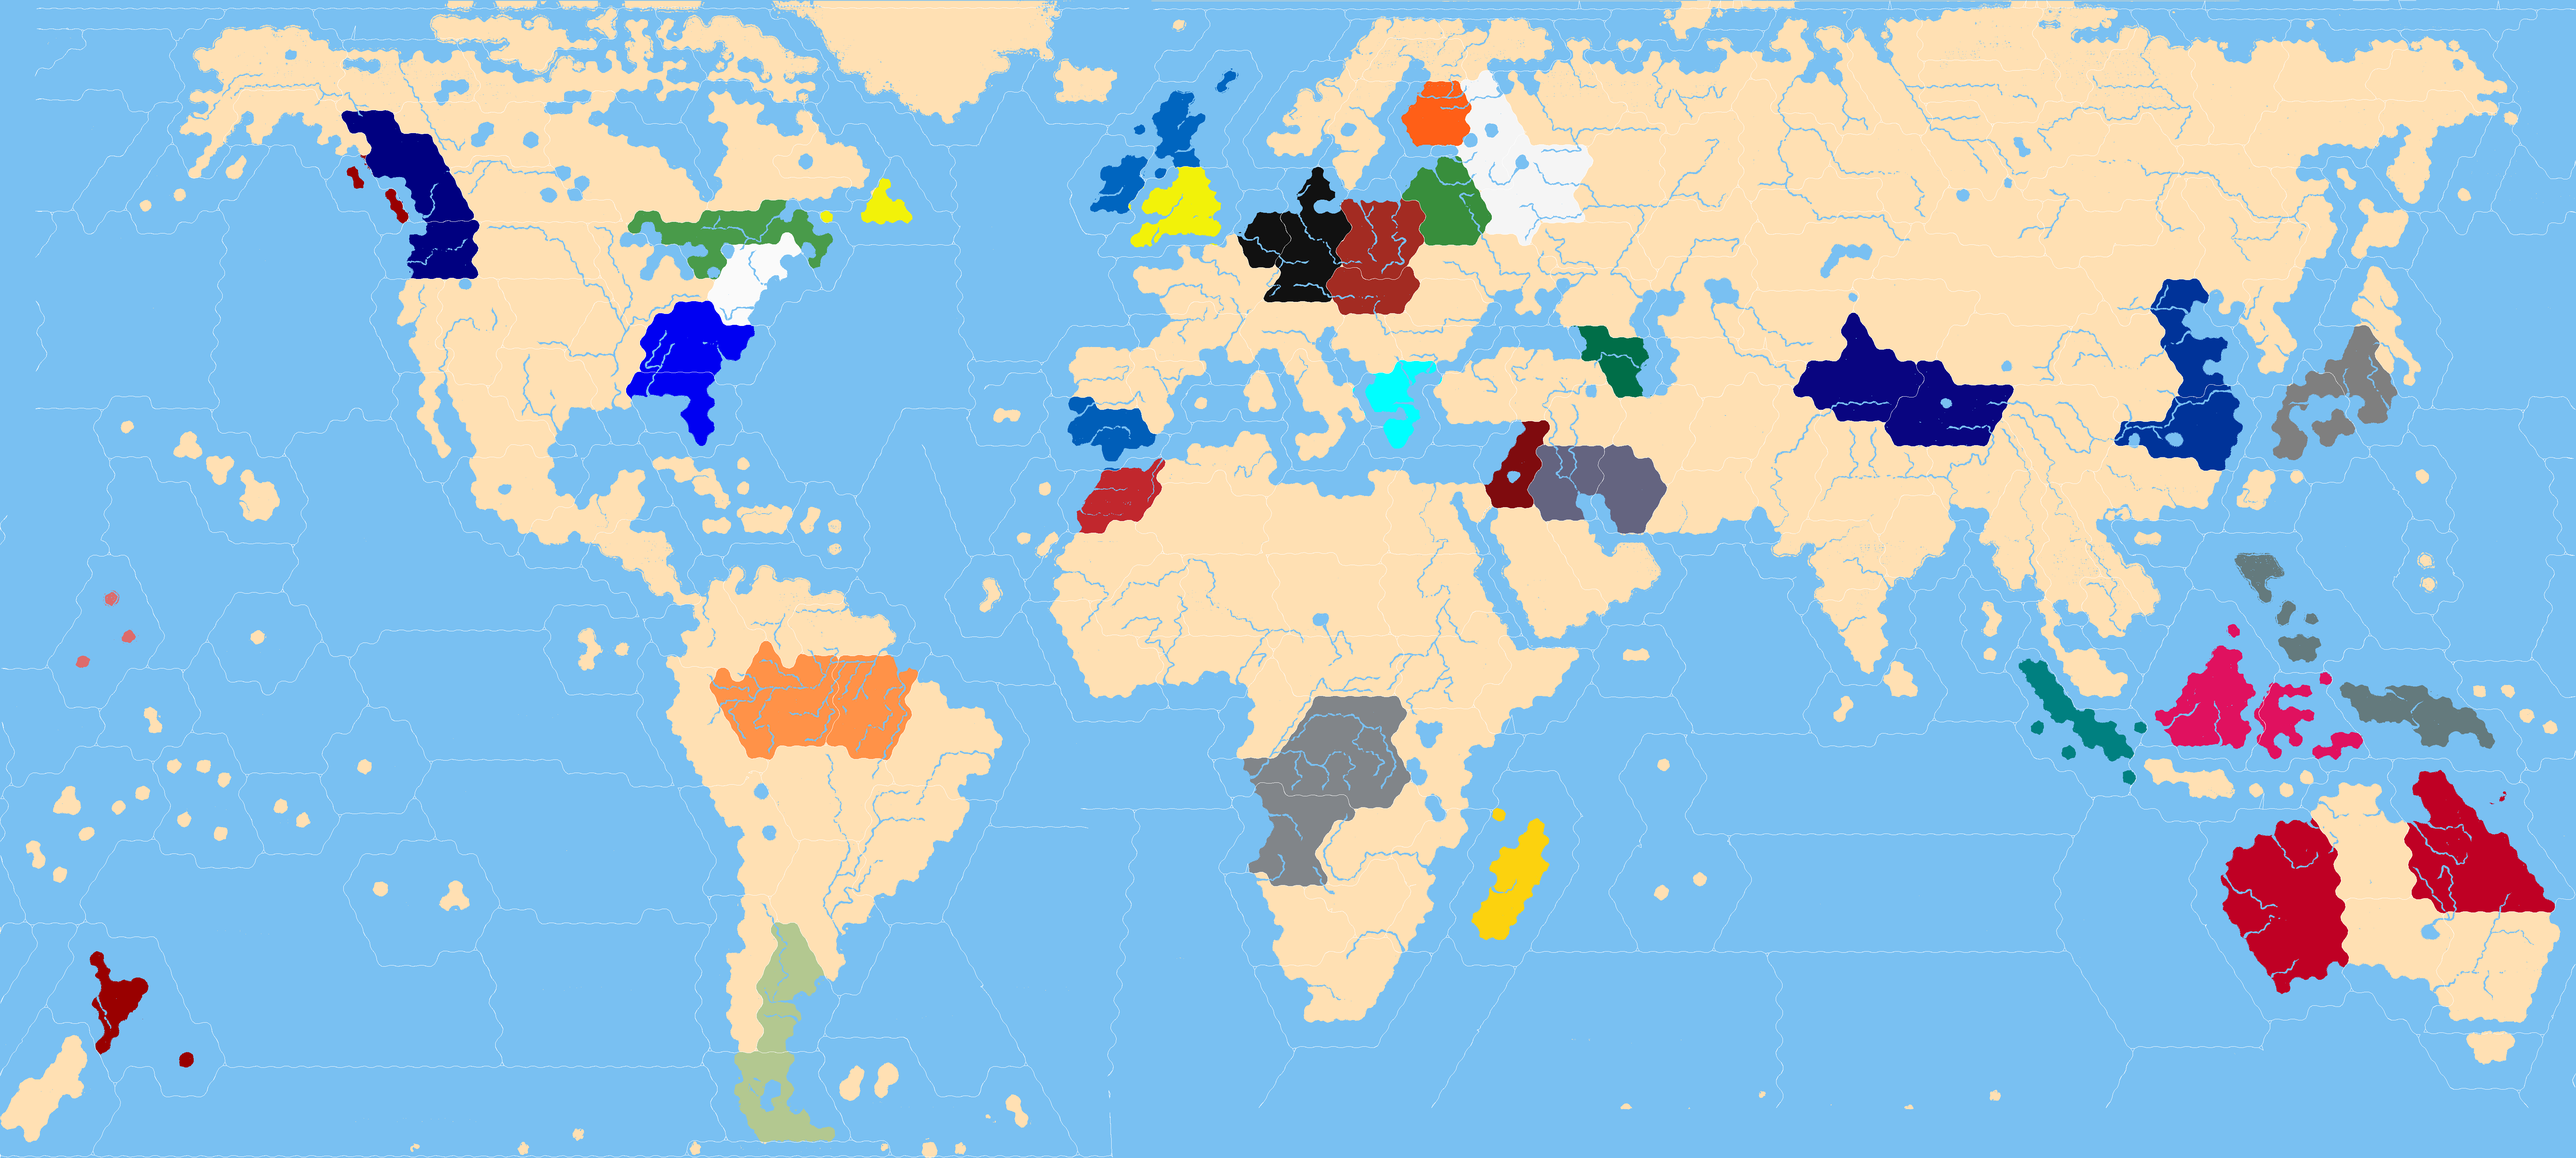
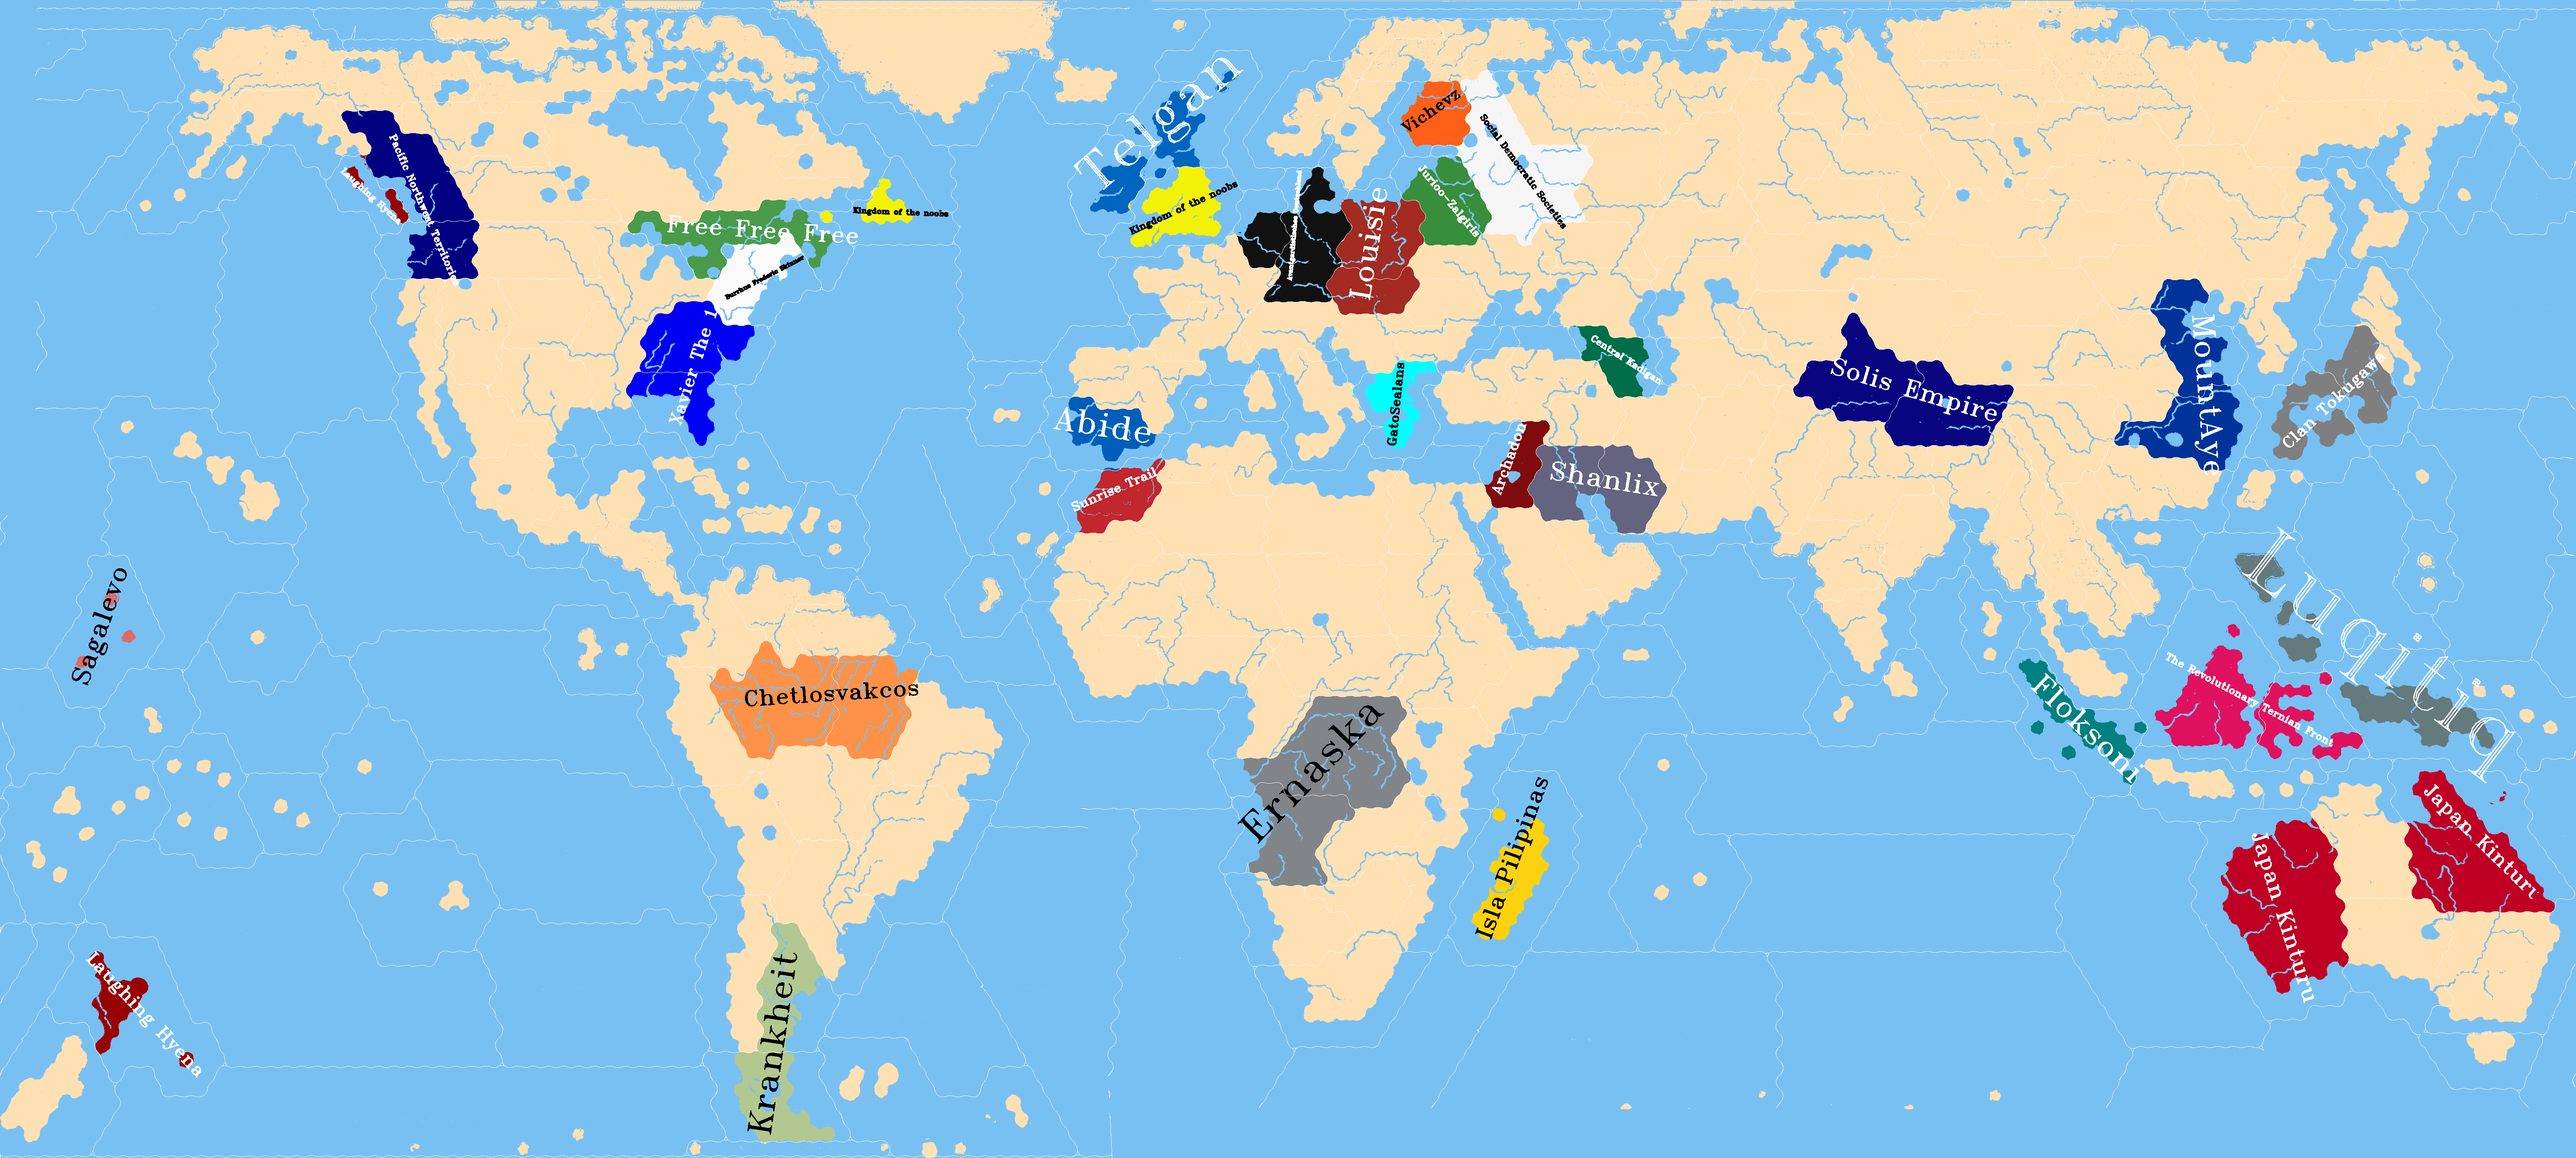
Decoration: add names on the map

diff --git a/scripts/paint_map.py b/scripts/paint_map.py
@@ -1,7 +1,8 @@
 import json
+import cv2
 import numpy as np
 import pandas as pd
-from skimage import io,segmentation,util
+from skimage import io,segmentation,morphology,measure,util
 
 def hex2color(hex:str):
     assert hex[0] == "#", "ColorError: lost `#` before hex code."
@@ -22,11 +23,52 @@ latest = np.zeros((*base.shape,3),dtype=int)
 latest[mask_lands] = hex2color(config["color_land"])
 latest[mask_ocean] = hex2color(config["color_seas"])
 
-for i,series in registered.iterrows():
-    row = int(series["PIN_ROW"])
-    col = int(series["PIN_COL"])
-    mask_territory = segmentation.flood(borders,(row,col),connectivity=1)
-    latest[np.logical_and(mask_lands,mask_territory)] = hex2color(series["COLOR"])
+for name in registered["STATE"].unique():
+    count_words = len(name.split(" "))
+    entries = registered.loc[registered["STATE"].eq(name)]
+    nation_territories = np.zeros_like(base,dtype=bool)
+    name_color = np.array([255,255,255])
+    nation_color = hex2color(config["color_land"])
+    for i,series in entries.iterrows():
+        row = int(series["PIN_ROW"])
+        col = int(series["PIN_COL"])
+        nation_territory = segmentation.flood(borders,(row,col),connectivity=1)
+        nation_territories = np.logical_or(nation_territories,nation_territory)
+        nation_land = np.logical_and(mask_lands,nation_territory)
+        
+        nation_color = hex2color(series["COLOR"])
+        latest[nation_land] = nation_color
+        if np.dot(nation_color,np.array([0.299,0.587,0.114]))>256/2:
+            name_color = np.array([0,0,0])
+    # Because we don't know if their territories are connected:
+    nation_territories = morphology.binary_opening(nation_territories,footprint=np.ones((3,3)))
+    for prop_territory in measure.regionprops(measure.label(nation_territories)):
+        angle = prop_territory.orientation * 180 / np.pi - 90
+        if angle < -90:
+            angle = 180 + angle
+        y,x = prop_territory.centroid
+        x -= 0.35 * prop_territory.axis_major_length * np.cos(angle/180*np.pi)
+        x = int(x)
+        y += 0.35 * prop_territory.axis_major_length * np.sin(angle/180*np.pi)
+        y = int(y)
+
+        (name_width,name_height),_ = cv2.getTextSize(name,fontFace=cv2.FONT_HERSHEY_TRIPLEX,fontScale=1,thickness=1)
+        scale = 0.8 * prop_territory.axis_major_length / name_width
+
+        text = cv2.putText(
+                           img=np.zeros_like(base,dtype=np.uint8), # Image.
+                           text=name,	               # Text string to be drawn.
+                           org=(x,y),	                   # Bottom-left corner of the text string in the image.
+                           fontFace=cv2.FONT_HERSHEY_TRIPLEX, # Font type, see HersheyFonts.
+                           fontScale=scale,	                   # Font scale factor that is multiplied by the font-specific base size.
+                           color=255,	                       # Text color.
+                           thickness=2,	                   # Thickness of the lines used to draw a text.
+                           lineType=cv2.LINE_AA,	           # Line type. See LineTypes
+                           bottomLeftOrigin=False,	           # When true, the image data origin is at the bottom-left corner. Otherwise, it is at the top-left corner.
+                          )
+        M = cv2.getRotationMatrix2D((x,y), angle, 1)
+        text = cv2.warpAffine(text, M, (text.shape[1], text.shape[0]))
+        latest[(text>255/2)] = name_color
 
 latest[(borders>0)] = np.array([255,255,255])
 io.imsave("latest.png",util.img_as_ubyte(latest))
